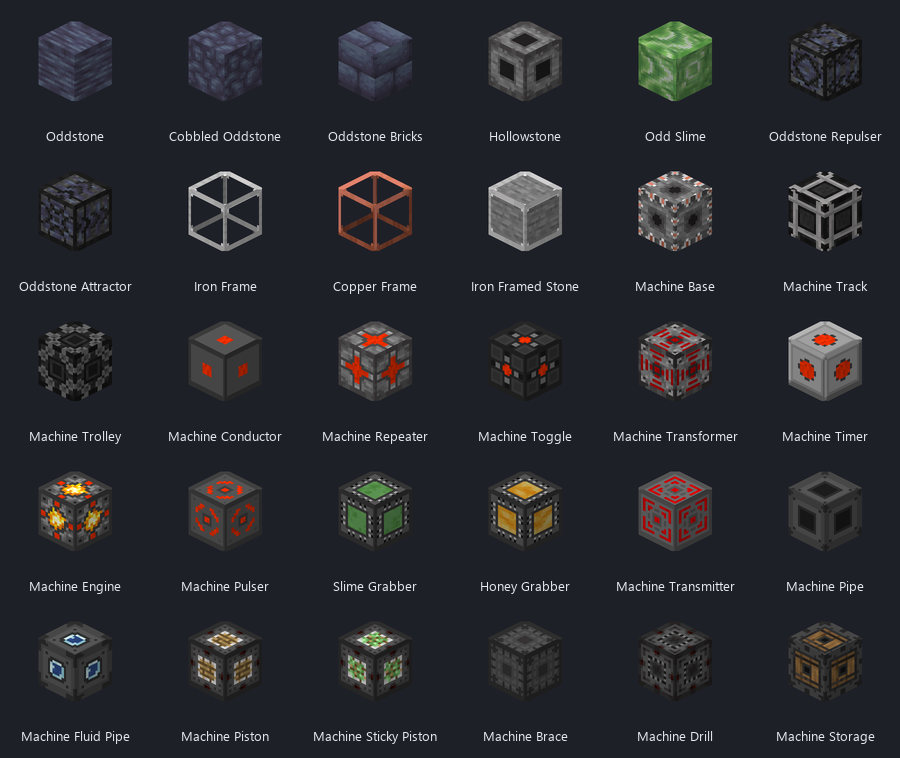
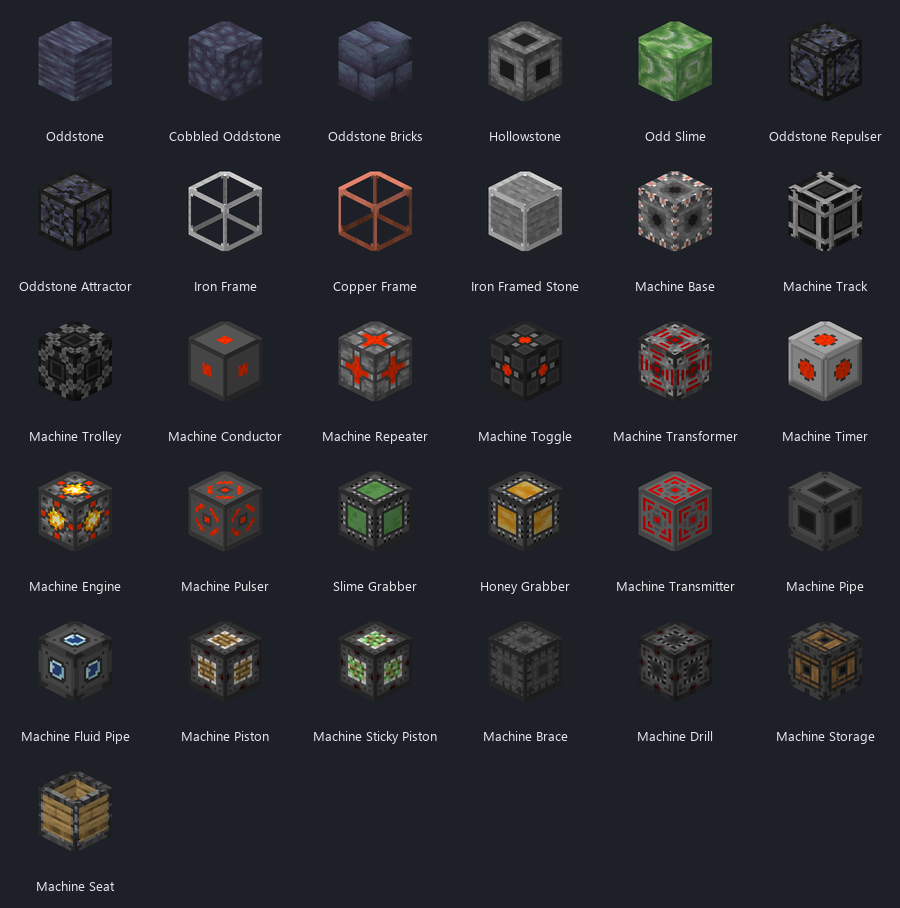
Render tools draw the Machine Seat; block catalogue redrawn with it

diff --git a/tools/renders/blocks.py b/tools/renders/blocks.py
@@ -218,6 +218,16 @@ def portal(p):
     return [(box(6, 0, 0, 10, 16, 16, tex, tint=tint, uv=(0, 0, 16, 16), faces=("east", "west")), True, C)]
 
 
+def machine_seat(p):
+    """Machine Seat: a 4 px floor and four 2 px walls, open on top (models/block/machine_seat.json)."""
+    S, B = "machine_seat_side", "machine_seat_bottom"
+    return [(box(0, 0, 0, 16, 4, 16, {"up": B, "down": B, "side": S}), False, (0.5, 0.125, 0.5)),
+            (box(0, 4, 0, 16, 16, 2, S), False, (0.5, 0.625, 0.0625)),
+            (box(0, 4, 2, 2, 16, 14, S), False, (0.0625, 0.625, 0.5)),
+            (box(0, 4, 14, 16, 16, 16, S), False, (0.5, 0.625, 0.9375)),
+            (box(14, 4, 2, 16, 16, 14, S), False, (0.9375, 0.625, 0.5))]
+
+
 MODELS = {
     # vanilla
     "stone": lambda p: cube("mc:stone"),
@@ -248,6 +258,7 @@ MODELS = {
     "brace": lambda p: cube("machine_extender"),
     "machine_drill": lambda p: cube("machine_drill"),
     "machine_storage": lambda p: cube("machine_storage"),
+    "machine_seat": machine_seat,
     "conductor": lambda p: indicator("machine_conductor", p.get("power", 0)),
     "repeater": lambda p: indicator("machine_repeater_%d" % p.get("delay", 1), 15 if p.get("on") else 0),
     "toggle": toggle,

diff --git a/tools/renders/scenes.py b/tools/renders/scenes.py
@@ -557,7 +557,7 @@ CATALOGUE = [
     ("Honey Grabber", "grabber", {"variant": "honey", "on": True}), ("Machine Transmitter", "transmitter", {"power": 12}),
     ("Machine Pipe", "pipe", {}), ("Machine Fluid Pipe", "fluid_pipe", {"fluid": "water"}),
     ("Machine Piston", "machine_piston", {}), ("Machine Sticky Piston", "machine_piston", {"sticky": True}),
-    ("Machine Brace", "brace", {}), ("Machine Drill", "machine_drill", {}), ("Machine Storage", "machine_storage", {}),
+    ("Machine Brace", "brace", {}), ("Machine Drill", "machine_drill", {}), ("Machine Storage", "machine_storage", {}), ("Machine Seat", "machine_seat", {}),
 ]
 
 
